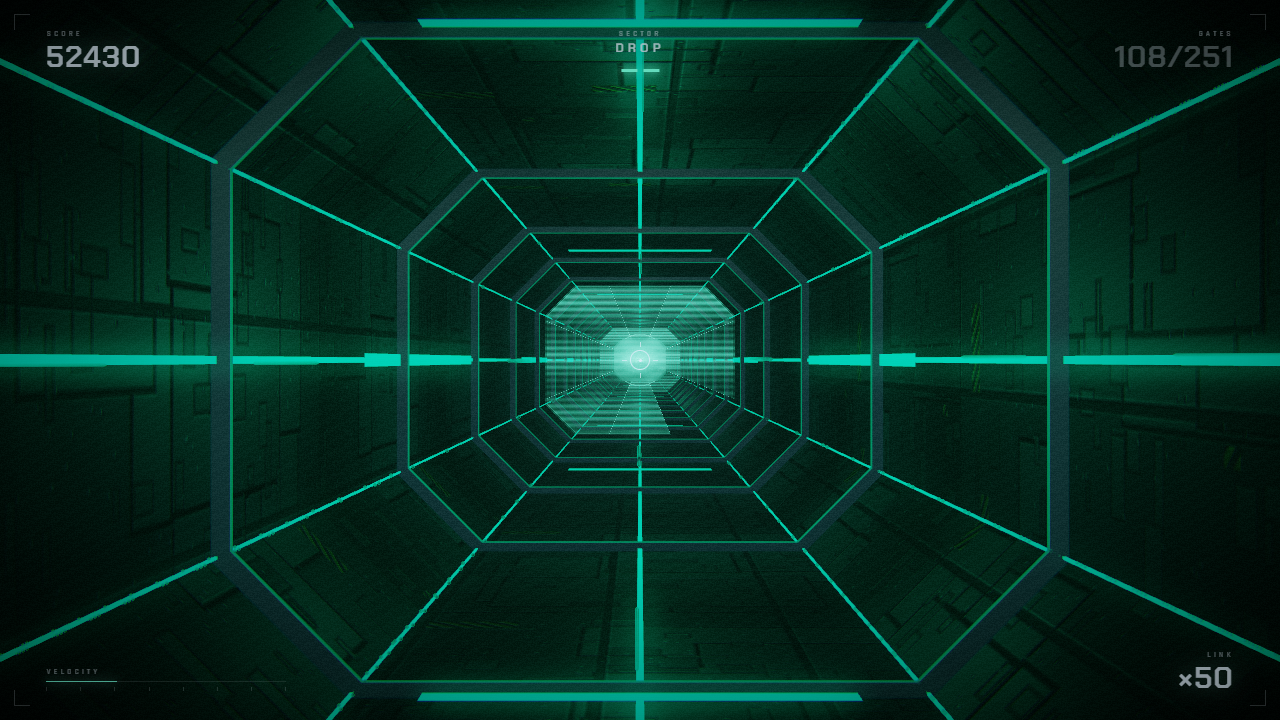
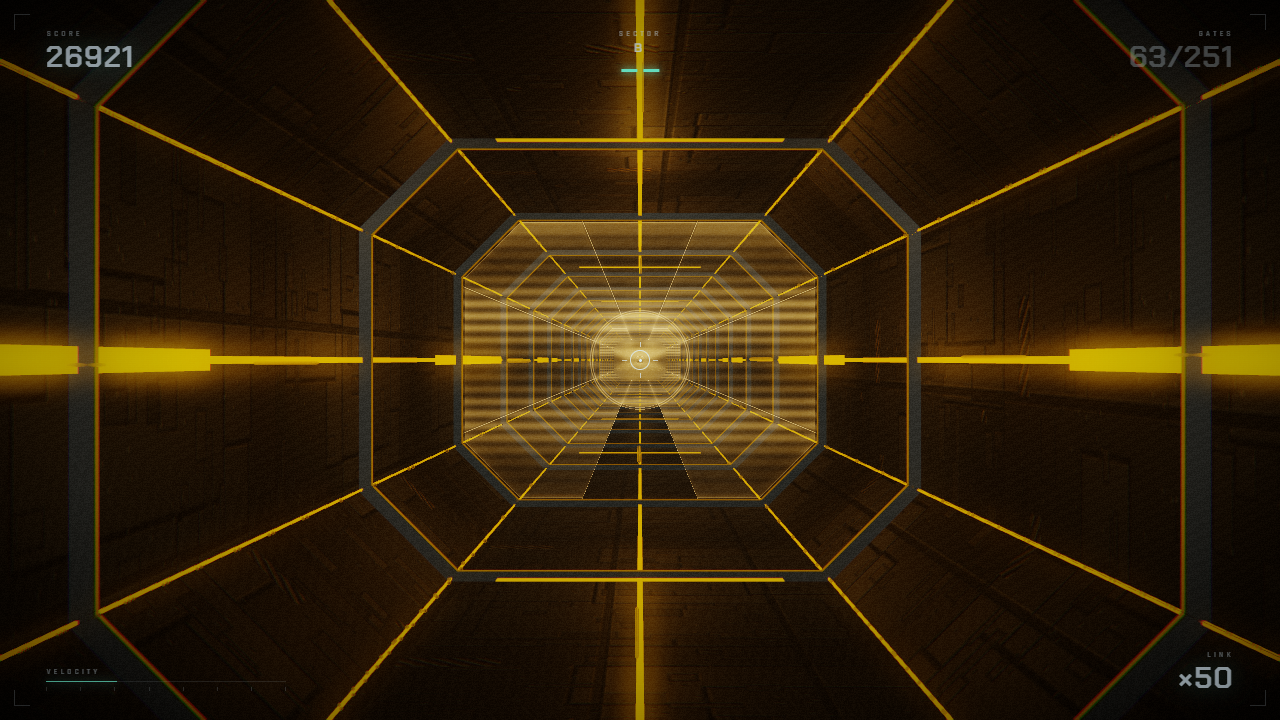
fix: gate fade, boost feedback, and an offline soundtrack renderer
- gates stay fully opaque until they pass the lens (they used to start fading at
  12 units); the fade now runs from d = +2.5 to d = -0.5 behind you
- boost was invisible: the FOV was narrowing, which reads as slowing down, and a
  repeating corridor gives no speed reference. It now widens the FOV by 7 degrees
  and drives a radial streak pass in the composite, plus a BOOST readout
- audio engine takes an injected context factory so it can run offline
- tools/render-audio.html renders the whole score through an OfflineAudioContext
  and writes a 16-bit stereo WAV; it ships no audio file, it makes one on demand

diff --git a/tools/render-audio.html b/tools/render-audio.html
@@ -1,0 +1,127 @@
+<!DOCTYPE html>
+<html lang="en">
+<head>
+<meta charset="utf-8">
+<title>ELSEWHERE — soundtrack render</title>
+<style>
+  @font-face{ font-family:"Rajdhani"; font-weight:300; font-display:swap;
+    src:url("../css/fonts/rajdhani-300.woff2") format("woff2"); }
+  @font-face{ font-family:"Rajdhani"; font-weight:700; font-display:swap;
+    src:url("../css/fonts/rajdhani-700.woff2") format("woff2"); }
+  @font-face{ font-family:"Chakra Petch"; font-weight:700; font-display:swap;
+    src:url("../css/fonts/chakra-700.woff2") format("woff2"); }
+  html,body{ margin:0; height:100%; background:#05080a; color:#dceef8;
+    font-family:"Rajdhani", system-ui, sans-serif; }
+  .wrap{ max-width:720px; margin:0 auto; padding:8vh 24px; }
+  h1{ font-family:"Chakra Petch"; font-weight:700; letter-spacing:.12em;
+    font-size:clamp(22px,4vw,40px); margin:0 0 .2em; }
+  p{ font-weight:300; letter-spacing:.06em; line-height:1.8; opacity:.72; }
+  button{ appearance:none; background:none; border:1px solid #74ffdc; color:#74ffdc;
+    font-family:inherit; font-weight:700; letter-spacing:.34em; font-size:12px;
+    padding:1em 1.6em; cursor:pointer; margin-top:1.6em; }
+  button:disabled{ opacity:.35; cursor:default; }
+  #log{ margin-top:2em; font-size:13px; letter-spacing:.08em; opacity:.65;
+    white-space:pre-wrap; font-variant-numeric:tabular-nums; }
+  a{ color:#74ffdc; }
+</style>
+</head>
+<body>
+<div class="wrap">
+  <h1>SOUNDTRACK RENDER</h1>
+  <p>
+    ELSEWHERE ships no audio files. The score is synthesised live by the Web Audio
+    engine in <code>js/audio.js</code>. This page runs that same engine against an
+    <code>OfflineAudioContext</code> and writes the whole 3:30 to a WAV you can keep.
+  </p>
+  <button id="go">RENDER 3:30 TO WAV</button>
+  <div id="log">idle</div>
+</div>
+
+<script type="module">
+import { AudioEngine } from '../js/audio.js';
+import { SONG_BEATS, BPM } from '../js/chart.js';
+
+const log = (s) => { document.getElementById('log').textContent = s; };
+
+function encodeWAV(buffer) {
+  const numCh = buffer.numberOfChannels;
+  const len = buffer.length;
+  const bytes = 44 + len * numCh * 2;
+  const ab = new ArrayBuffer(bytes);
+  const view = new DataView(ab);
+  const w = (o, s) => { for (let i = 0; i < s.length; i++) view.setUint8(o + i, s.charCodeAt(i)); };
+
+  w(0, 'RIFF'); view.setUint32(4, bytes - 8, true); w(8, 'WAVE');
+  w(12, 'fmt '); view.setUint32(16, 16, true); view.setUint16(20, 1, true);
+  view.setUint16(22, numCh, true); view.setUint32(24, buffer.sampleRate, true);
+  view.setUint32(28, buffer.sampleRate * numCh * 2, true);
+  view.setUint16(32, numCh * 2, true); view.setUint16(34, 16, true);
+  w(36, 'data'); view.setUint32(40, len * numCh * 2, true);
+
+  const chans = [];
+  for (let c = 0; c < numCh; c++) chans.push(buffer.getChannelData(c));
+
+  let o = 44;
+  for (let i = 0; i < len; i++) {
+    for (let c = 0; c < numCh; c++) {
+      let s = Math.max(-1, Math.min(1, chans[c][i]));
+      view.setInt16(o, s < 0 ? s * 0x8000 : s * 0x7FFF, true);
+      o += 2;
+    }
+  }
+  return new Blob([ab], { type: 'audio/wav' });
+}
+
+async function render(){
+  const btn = document.getElementById('go');
+  btn.disabled = true;
+  try {
+    const sr = 44100;
+    const qs = new URLSearchParams(location.search);
+    const clip = Number(qs.get('secs') || 0);
+    const dur = clip > 0 ? clip + 2 : (SONG_BEATS * 60) / BPM + 4;
+    log(`building offline context · ${sr} Hz · ${dur.toFixed(1)} s stereo`);
+
+    const ctx = new OfflineAudioContext(2, Math.ceil(sr * dur), sr);
+    const eng = new AudioEngine(BPM, () => ctx);
+    const ok = await eng.init();
+    if (!ok) throw new Error('engine init failed: ' + (eng.lastError && (eng.lastError.stack || eng.lastError.message) || 'unknown'));
+
+    const totalSteps = clip > 0 ? Math.ceil(clip * BPM / 60 * 4) : Math.ceil(SONG_BEATS * 4);
+    const stepSec = (60 / BPM) / 4;
+    log(`scheduling ${totalSteps} sixteenths`);
+
+    eng.running = true;
+    for (let i = 0; i < totalSteps; i++) {
+      eng.step = i;
+      eng._playStep(i % 16, Math.floor(i / 16) % 8, 0.12 + i * stepSec);
+    }
+
+    log('rendering…');
+    const buf = await ctx.startRendering();
+
+    log('encoding wav…');
+    const blob = encodeWAV(buf);
+    const url = URL.createObjectURL(blob);
+    const a = document.createElement('a');
+    a.href = url;
+    a.download = 'elsewhere-vol1.wav';
+    document.body.appendChild(a);
+    if (location.search.indexOf('nodownload=1') < 0) { a.click(); }
+    a.remove();
+    setTimeout(() => URL.revokeObjectURL(url), 60000);
+
+    log(`done · ${(blob.size / 1048576).toFixed(1)} MB · ${buf.duration.toFixed(1)} s`);
+    btn.disabled = false;
+    btn.textContent = 'RENDER AGAIN';
+  } catch (err) {
+    log('FAILED: ' + (err && err.message ? err.message : err));
+    btn.disabled = false;
+  }
+}
+
+document.getElementById('go').addEventListener('click', render);
+if (location.search.indexOf('auto=1') >= 0) render();
+</script>
+</body>
+</html>

diff --git a/js/post.js b/js/post.js
@@ -130,6 +130,7 @@ uniform float uFlash;
 uniform vec3  uFlashColor;
 uniform float uExposure;
 uniform float uInvert;
+uniform float uBoost;
 
 vec3 aces(vec3 x){
   const float a = 2.51, b = 0.03, c = 2.43, d = 0.59, e = 0.14;
@@ -148,6 +149,17 @@ void main(){
   col.b = texture2D(tScene, uv - off).b;
 
   col += texture2D(tBloom, uv).rgb * uBloom;
+
+  // boost: radial streak toward the vanishing point, plus a hot rim
+  if (uBoost > 0.01) {
+    vec3 acc = col;
+    for (int i = 1; i <= 4; i++) {
+      vec2 o = d * (float(i) * 0.011 * uBoost);
+      acc += texture2D(tScene, uv - o).rgb;
+    }
+    col = acc / 5.0;
+    col += col * uBoost * 0.18 * smoothstep(0.02, 0.55, r2 * 2.0);
+  }
 
   col *= uExposure;
 
@@ -261,6 +273,7 @@ export class PostFX {
         uFlashColor: { value: new THREE.Color(1, 1, 1) },
         uExposure: { value: 1.0 },
         uInvert: { value: 0 },
+        uBoost: { value: 0 },
       },
       depthTest: false, depthWrite: false,
     });
@@ -289,6 +302,12 @@ export class PostFX {
   setFocus(dist) {
     const u = this.dofMat.uniforms;
     u.uFocus.value += (dist - u.uFocus.value) * 0.12;
+  }
+
+  /** 0 = cruising, 1 = boosting. Eased so it does not snap. */
+  setBoost(amount) {
+    const u = this.compMat.uniforms.uBoost;
+    u.value += (amount - u.value) * 0.14;
   }
 
   _pass(mat, target) {

diff --git a/js/main.js b/js/main.js
@@ -543,7 +543,7 @@ function step(dt) {
   fog.color.setHSL((currentHue + 1) % 1, 0.75, 0.030);
 
   // fov kick ------------------------------------------------------
-  const boostFov = (G.boosting && G.state === State.PLAY) ? -4.5 : 0;
+  const boostFov = (G.boosting && G.state === State.PLAY) ? 7.0 : 0;
   camera.fov = 76 + pulse * 3.4 + boostFov + (G.state === State.PLAY ? Math.min(G.speed, 56) * 0.045 : 0);
   camera.updateProjectionMatrix();
 
@@ -602,6 +602,7 @@ function step(dt) {
     if (g.d > 1 && g.d < focus) focus = g.d;
   }
   post.setFocus(THREE.MathUtils.clamp(focus * 1.05, 26, 130));
+  post.setBoost(G.boosting && G.state === State.PLAY ? 1 : 0);
 
   // score from distance ------------------------------------------
   if (G.state === State.PLAY) G.score += G.speed * sdt * 0.35;
@@ -775,6 +776,7 @@ if (FIXED_T !== null) {
   if (params.get('god') !== '1') GOD = true;   // captures should reach the end
   gates.clear();
   resetRun();
+  if (params.get('boost') === '1') G.boosting = true;
   setState(State.PLAY);
   const FIXED_DT = 1 / 60;
   let acc = 0;

diff --git a/js/audio.js b/js/audio.js
@@ -58,8 +58,9 @@ function midiToFreq(m) {
 }
 
 export class AudioEngine {
-  constructor(bpm = BPM) {
+  constructor(bpm = BPM, ctxFactory = null) {
     this.bpm = bpm;
+    this.ctxFactory = ctxFactory;
     this.ctx = null;
     this.running = false;
     this.muted = false;
@@ -75,11 +76,12 @@ export class AudioEngine {
   async init() {
     if (this.ctx) return this.ok;
     const Ctx = window.AudioContext || window.webkitAudioContext;
-    if (!Ctx) return false;
+    if (!Ctx && !this.ctxFactory) return false;
 
     try {
-      this.ctx = new Ctx({ latencyHint: 'interactive' });
+      this.ctx = this.ctxFactory ? this.ctxFactory() : new Ctx({ latencyHint: 'interactive' });
     } catch (e) {
+      this.lastError = e;
       return false;
     }
     const c = this.ctx;

diff --git a/js/gates.js b/js/gates.js
@@ -69,7 +69,7 @@ const float STEP = 0.78539816;   // PI / 4
 float hash(float x){ return fract(sin(x * 127.1) * 43758.5453); }
 
 void main(){
-  if (vDepth < 4.0) discard;
+  if (vDepth < 0.5) discard;
 
   vec2 p = (vUv - 0.5) * uSize;
 
@@ -205,7 +205,8 @@ export class Gate {
     u.uTime.value = time;
     u.uHit.value = this.hit * 0.8;
     u.uColor.value.setHSL((hue + 1) % 1, 0.72, 0.55);
-    u.uFade.value = THREE.MathUtils.clamp((this.d - 3.0) / 9.0, 0, 1);
+    // stays fully opaque right up to the moment it passes the lens, then fades out behind you
+    u.uFade.value = THREE.MathUtils.clamp((this.d + 2.5) / 3.0, 0, 1);
   }
 
   dispose() {
